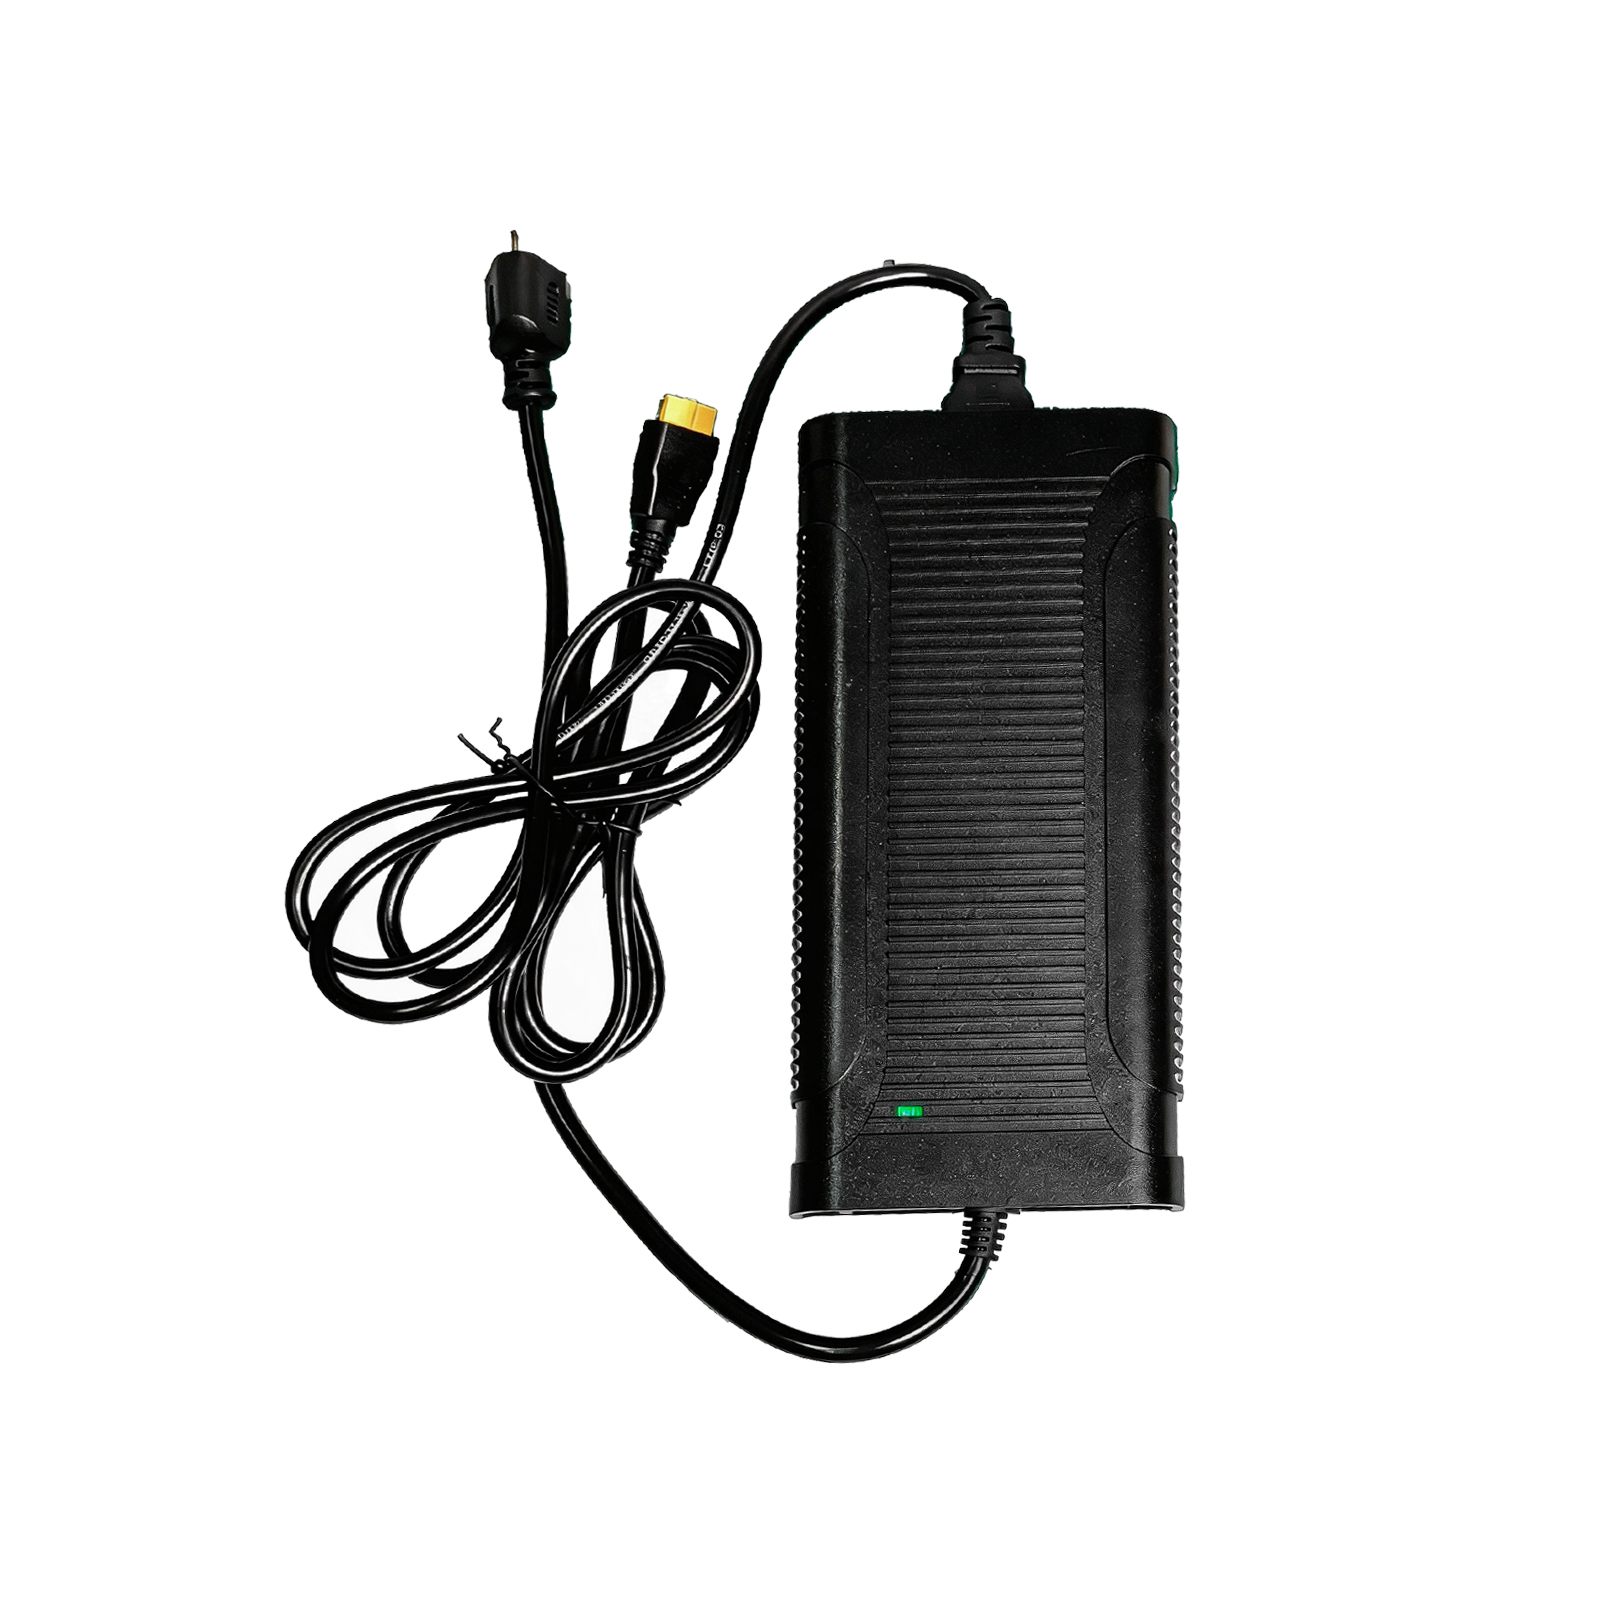
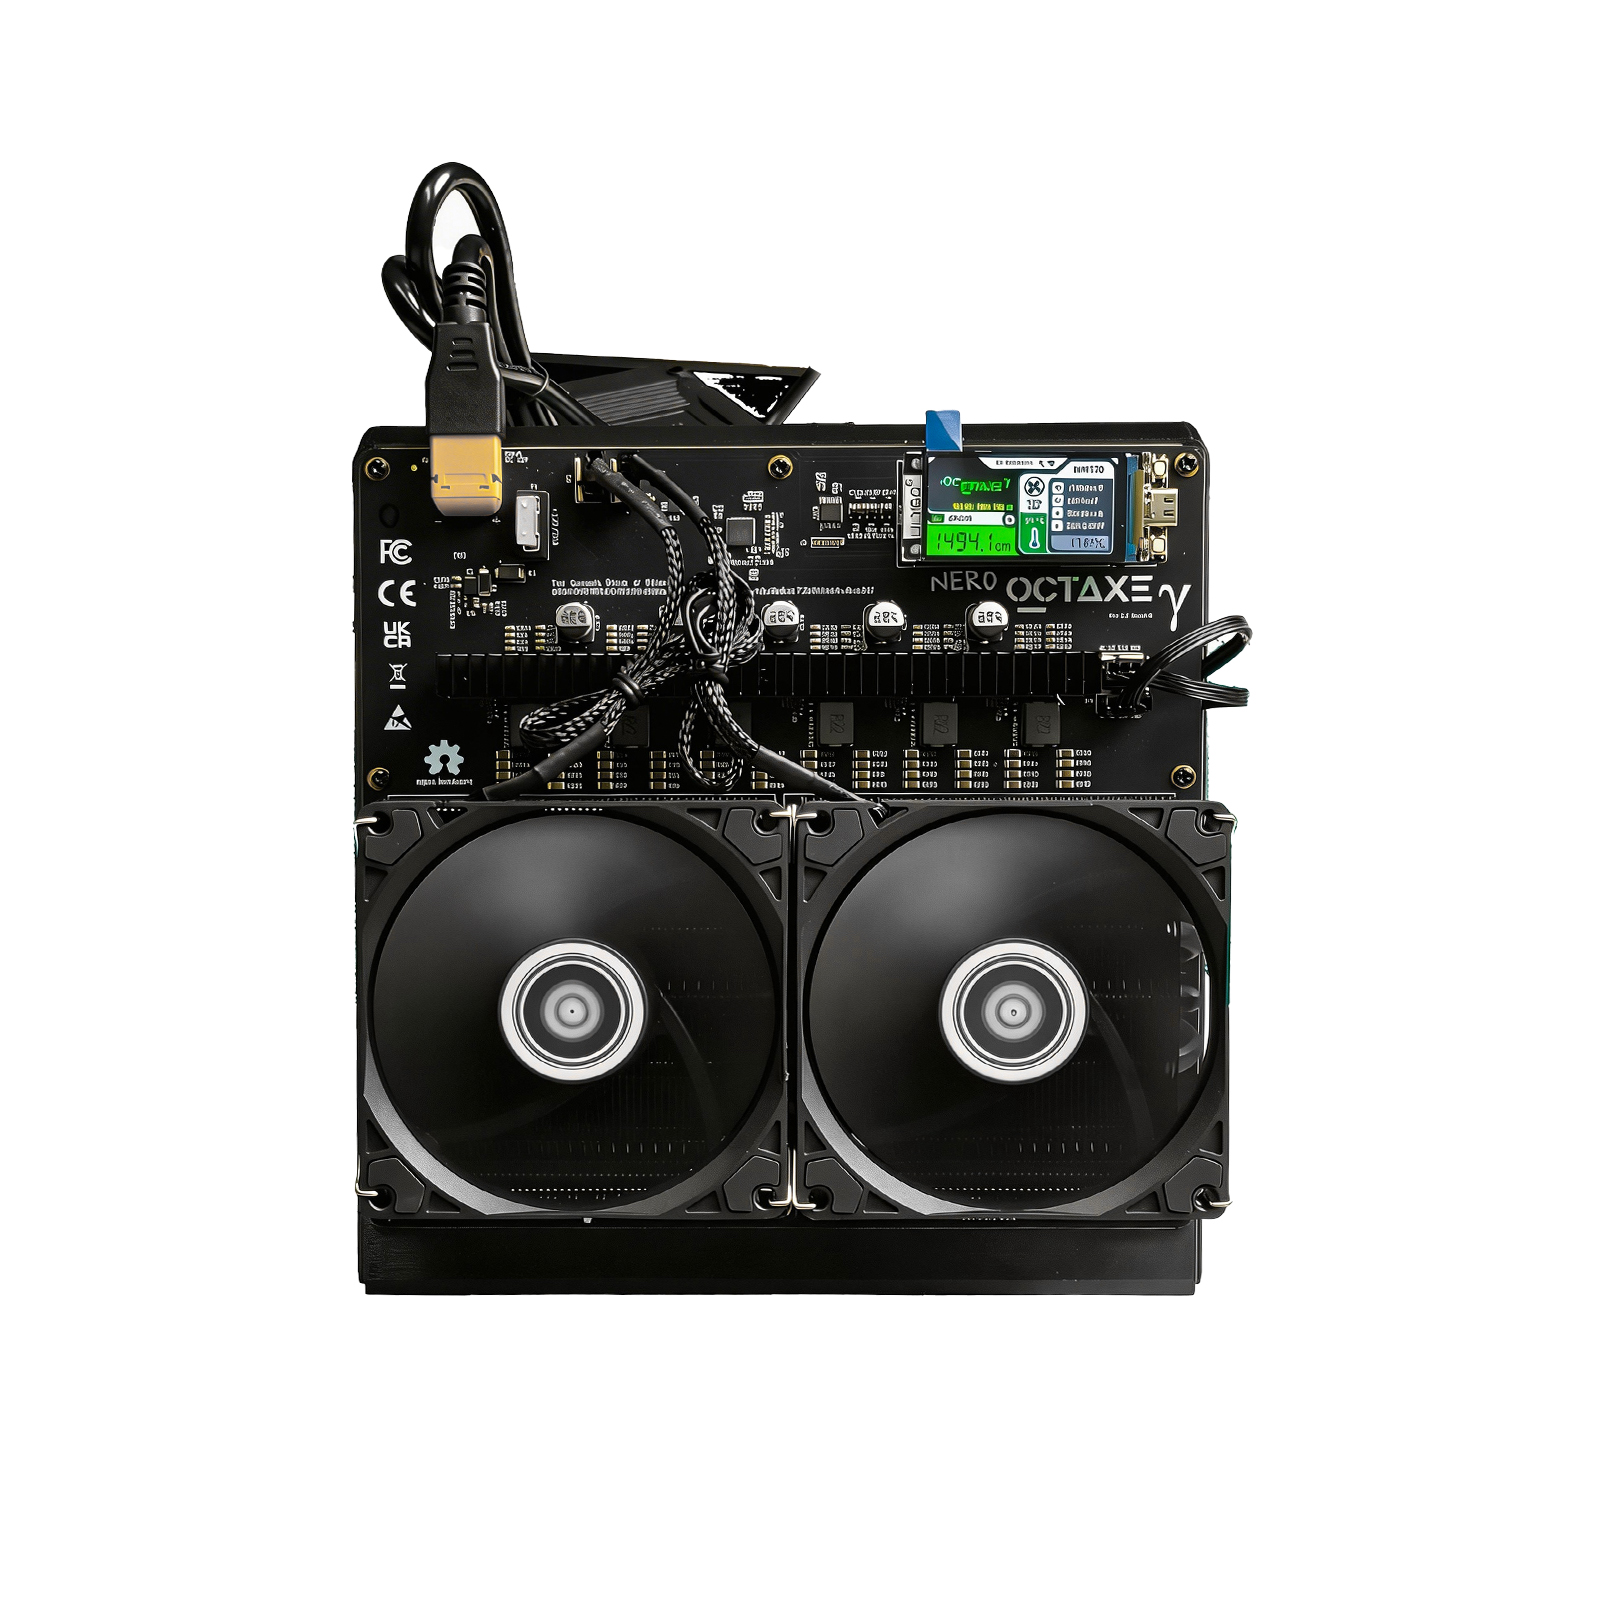
reorder product

Changed region(s): [[0.1562, 0.0938, 0.7812, 0.875]]

diff --git a/app.js b/app.js
@@ -1,5 +1,55 @@
 var products = [
   {
+    id: 'nexuss1',
+    name: 'Nexus Miner S1',
+    tagline: 'Solo Mining ASIC — PSU Included',
+    chip: '4×BM1373',
+    hashrate: '10.3 TH/s',
+    power: '103W ±10%',
+    efficiency: '10 J/TH',
+    noise: '<50dB',
+    size: '170 × 160 × 105 mm',
+    weight: '~900g',
+    cooling: 'Cooling 2600RPM Fan',
+    psu: 'PSU XT30 12VDC (Included)',
+    price: '$780',
+    featured: false,
+    badge: null,
+    img: 'images/nexuss1.png',
+    algo: 'SHA-256 (BTC/BCH/BSV)',
+    warranty: '6 months',
+    gallery: ['images/nexuss1_1.png','images/nexuss1_2.png','images/nexuss1_3.png','images/nexuss1_4.png','images/nexuss1_5.png','images/nexuss1_6.png'],
+    desc: 'Compact ASIC miner built for home and solo mining. Powered by four next-gen BM1373 chips, delivering ~10.3 TH/s at just ~103W — an outstanding ~10 J/TH efficiency. Supports BTC, BCH, and BSV on the SHA-256 algorithm.',
+    shipping: 'Estimated shipping: end of May 2026.',
+    highlights: [
+      'Built-in ESP32-S3 WiFi for a quick, cable-free setup experience.',
+      'Designed for the home: ultra-quiet cooling, low power draw, true plug-and-play.',
+      'Fully open-source firmware — tweak, tune, and make it your own.',
+      'Backed by a 6-month limited warranty for your peace of mind.'
+    ]
+  },
+  {
+    id: 'nexusl1',
+    name: 'Nexus Miner L1',
+    tagline: '320 MH/s Scrypt Miner',
+    chip: '4×BM1491',
+    hashrate: '320 MH/s',
+    power: '70W ±10%',
+    efficiency: '4.57 J/MH',
+    noise: '<50 dB',
+    size: '170 × 160 × 105 mm',
+    weight: '~500g',
+    cooling: 'Cooling 2600RPM Fan',
+    psu: 'PSU XT30 12VDC (Included)',
+    price: '$499',
+    featured: false,
+    badge: 'limited',
+    img: 'images/nexusl1.png',
+    algo: 'Scrypt (LTC/DOGE/BELLS)',
+    warranty: '6 months',
+    gallery: ['images/nexusl1_1.png','images/nexusl1_2.png','images/nexusl1_3.png','images/nexusl1_4.png','images/nexusl1_5.png','images/nexusl1_6.png','images/nexusl1_7.png']
+  },
+  {
     id: 'nerdqaxe48',
     name: 'NerdQaxe++',
     tagline: '4.8 TH/s Air-Cooled',
@@ -64,6 +114,7 @@ var products = [
   },
   {
     id: 'nerdoctaxe12',
+    hidden: true,
     name: 'NerdOCTAXE γ',
     tagline: 'Rev 3.1 — 12 TH/s',
     chip: '8×BM1370',
@@ -85,6 +136,7 @@ var products = [
   },
   {
     id: 'nerdoctaxe15',
+    hidden: true,
     name: 'NerdOCTAXE γ',
     tagline: 'Rev 3.1 — 15 TH/s',
     chip: '8×BM1370',
@@ -103,56 +155,6 @@ var products = [
     algo: 'SHA-256 (BTC/BCH/BSV)',
     warranty: '6 months',
     gallery: ['images/nerdoctaxe15_1.jpg','images/nerdoctaxe15_2.jpg','images/nerdoctaxe15_3.jpg','images/nerdoctaxe15_4.jpg','images/nerdoctaxe15_5.jpg','images/nerdoctaxe15_6.jpg']
-  },
-  {
-    id: 'nexusl1',
-    name: 'Nexus Miner L1',
-    tagline: '320 MH/s Scrypt Miner',
-    chip: '4×BM1491',
-    hashrate: '320 MH/s',
-    power: '70W ±10%',
-    efficiency: '4.57 J/MH',
-    noise: '<50 dB',
-    size: '170 × 160 × 105 mm',
-    weight: '~500g',
-    cooling: 'Cooling 2600RPM Fan',
-    psu: 'PSU XT30 12VDC (Included)',
-    price: '$499',
-    featured: false,
-    badge: 'limited',
-    img: 'images/nexusl1.png',
-    algo: 'Scrypt (LTC/DOGE/BELLS)',
-    warranty: '6 months',
-    gallery: ['images/nexusl1_1.png','images/nexusl1_2.png','images/nexusl1_3.png','images/nexusl1_4.png','images/nexusl1_5.png','images/nexusl1_6.png','images/nexusl1_7.png']
-  },
-  {
-    id: 'nexuss1',
-    name: 'Nexus Miner S1',
-    tagline: 'Solo Mining ASIC — PSU Included',
-    chip: '4×BM1373',
-    hashrate: '10.3 TH/s',
-    power: '103W ±10%',
-    efficiency: '10 J/TH',
-    noise: '<50dB',
-    size: '170 × 160 × 105 mm',
-    weight: '~900g',
-    cooling: 'Cooling 2600RPM Fan',
-    psu: 'PSU XT30 12VDC (Included)',
-    price: '$780',
-    featured: false,
-    badge: null,
-    img: 'images/nexuss1.png',
-    algo: 'SHA-256 (BTC/BCH/BSV)',
-    warranty: '6 months',
-    gallery: ['images/nexuss1_1.png','images/nexuss1_2.png','images/nexuss1_3.png','images/nexuss1_4.png','images/nexuss1_5.png','images/nexuss1_6.png'],
-    desc: 'Compact ASIC miner built for home and solo mining. Powered by four next-gen BM1373 chips, delivering ~10.3 TH/s at just ~103W — an outstanding ~10 J/TH efficiency. Supports BTC, BCH, and BSV on the SHA-256 algorithm.',
-    shipping: 'Estimated shipping: end of May 2026.',
-    highlights: [
-      'Built-in ESP32-S3 WiFi for a quick, cable-free setup experience.',
-      'Designed for the home: ultra-quiet cooling, low power draw, true plug-and-play.',
-      'Fully open-source firmware — tweak, tune, and make it your own.',
-      'Backed by a 6-month limited warranty for your peace of mind.'
-    ]
   }
 ];
 
@@ -189,6 +191,7 @@ function renderProducts() {
   if (!grid) return;
   var html = '';
   products.forEach(function (p) {
+    if (p.hidden) return;
     var badgeHtml = '';
     if (p.badge && badges[p.badge]) {
       var b = badges[p.badge];
@@ -239,6 +242,7 @@ function renderCompareTable() {
   var html = '<thead><tr class="border-b border-gray-200 bg-gray-50">';
   html += '<th class="px-5 py-4 text-sm font-semibold text-gray-500 sticky left-0 bg-gray-50">' + __('compareParam') + '</th>';
   products.forEach(function (p) {
+    if (p.hidden) return;
     html += '<th class="px-5 py-4 text-sm font-bold text-gray-900 whitespace-nowrap">' + p.name + '<br><span class="text-xs font-normal text-gray-400">' + p.tagline + '</span></th>';
   });
   html += '</tr></thead><tbody>';
@@ -248,6 +252,7 @@ function renderCompareTable() {
     html += '<tr class="border-b border-gray-100 ' + rowClass + '">';
     html += '<td class="px-5 py-3.5 text-sm font-medium text-gray-500 sticky left-0 ' + (idx % 2 === 0 ? 'bg-white' : 'bg-gray-50') + '">' + __(sk.labelKey) + '</td>';
     products.forEach(function (p) {
+      if (p.hidden) return;
       var val = p[sk.key];
       if (sk.key === 'cooling' || sk.key === 'psu') {
         val = __(val) || val;
@@ -283,6 +288,7 @@ function populateModelSelect() {
   selects.forEach(function (sel) {
     var html = '<option value="">' + __('formModelPlaceholder') + '</option>';
     products.forEach(function (p) {
+      if (p.hidden) return;
       html += '<option value="' + p.name + '">' + p.name + ' (' + p.tagline + ') — ' + p.price + '</option>';
     });
     sel.innerHTML = html;

diff --git a/hide_products.js b/hide_products.js
@@ -1,0 +1,8 @@
+const fs = require('fs');
+let app = fs.readFileSync('d:/work/xcweb/app.js', 'utf8');
+
+// Reorder: move nexuss1 and l1 to front
+const products = [
+  { id: 'nexuss1', hidden: true },
+  { id: 'nexusl1', hidden: true }
+];

diff --git a/i18n.js b/i18n.js
@@ -87,7 +87,7 @@
       detailBoxItem2: 'Power adapter',
       detailBoxItem3: 'Quick start guide',
       detailBoxItem4: 'WiFi antenna &amp; accessories',
-      detailWarranty: '12-month warranty',
+      detailWarranty: '6-month warranty',
       backToProducts: '← Back to Products',
       buyNow: 'Buy Now',
       buyNowDesc: 'Secure your %s today.',
@@ -190,7 +190,7 @@
       detailBoxItem2: '电源适配器',
       detailBoxItem3: '快速入门指南',
       detailBoxItem4: 'WiFi 天线及配件',
-      detailWarranty: '12 个月质保',
+      detailWarranty: '6 个月质保',
       backToProducts: '← 返回产品列表',
       buyNow: '立即购买',
       buyNowDesc: '立即获取你的 %s。',

diff --git a/product.html b/product.html
@@ -106,7 +106,7 @@
           <ul id="boxItems" class="space-y-2 text-sm text-gray-600"></ul>
           <hr class="my-4 border-gray-200" />
           <div class="flex items-center gap-2 text-sm text-brand-600 font-medium">
-            <i class="fa-solid fa-shield-halved"></i> <span data-i18n="detailWarranty">12-month warranty</span>
+            <i class="fa-solid fa-shield-halved"></i> <span data-i18n="detailWarranty">6-month warranty</span>
           </div>
         </div>
       </div>